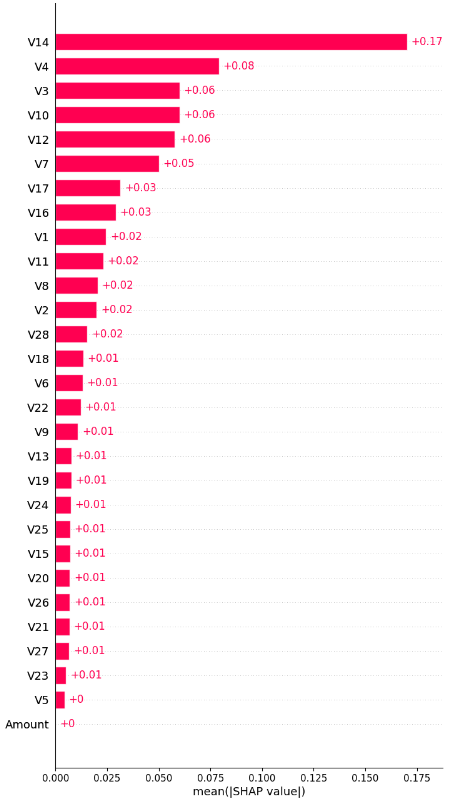
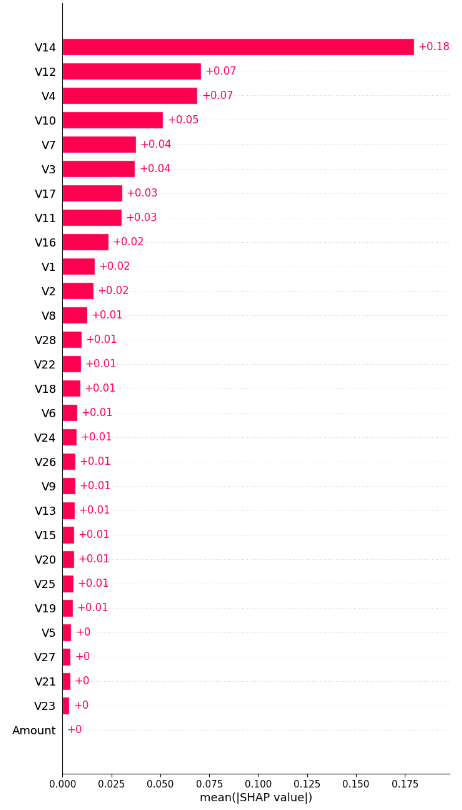
Actualizar recomendaciones y algunos archivos

Changed region(s): [[0.0307, 0.0, 0.9825, 1.0]]

diff --git a/README.md b/README.md
@@ -85,7 +85,7 @@ secciones se detallará esto.
 ### Rendimiento
 
 El modelo obtuvo excelentes rendimientos, al utilizar AUC-ROC, sensibilidad, precisión y F1. Las puntuaciones fueron 0.99, 1, 0.99 y 0.99, respectivamente. Otro
- método para evaluar nuestro modelo implicó el uso de la matriz de confusión. La matriz de confusión indicó 28 falsos positivos, un número relativamente pequeño
+ método para evaluar nuestro modelo implicó el uso de la matriz de confusión. La matriz de confusión indicó 18 falsos positivos, un número relativamente pequeño
  en comparación con los verdaderos positivos (56,976). Esto implica la generalización del modelo. La siguiente image muestran la matriz de confusión.
 
 ![matriz-de-confusion](./matriz-de-confusion.png)
@@ -94,7 +94,7 @@ El modelo obtuvo excelentes rendimientos, al utilizar AUC-ROC, sensibilidad, pre
 ### Interpretabilidad
 
 El modelo incluye capacidades de interpretabilidad al computar valores SHAP. Esto permitió descubrir que la característica más
- importante, por lejos, para predecir si una transacción es fraudulenta o legítima es 'V14' con un valor SHAP promedio global de 0.17, 
+ importante, por lejos, para predecir si una transacción es fraudulenta o legítima es 'V14' con un valor SHAP promedio global de 0.18, 
 esto representa un 212.5% más que la segunda característica más importante, 'V4' con 0.08. Es importante notar que la 
 característica menos importante para la predicción objetiva del modelo es la cantidad de dinero transferido ('Amount'). La siguiente imagen
 ilustra lo anterior.
@@ -112,52 +112,18 @@ es fraudulenta.
 
 ## Recomendaciones y pasos futuros
 
-En función a los conocimientos adquiridos sobre los patrones de transacciones fraudulentas y legítimas, al entrenar un modelo predictivo
- con capacidades de generalización e interpretabilidad, usando árboles de decisión con aumento de gradiente (ADAG), implementado
- en XGBoost, a continuación se ofrecen algunas recomendaciones prácticas:
+En función a los conocimientos adquiridos sobre los patrones de transacciones fraudulentas y legítimas, al entrenar un modelo predictivo con capacidades de generalización e interpretabilidad, usando árboles de decisión con aumento de gradiente (ADAG), implementado en XGBoost, a continuación se ofrecen algunas recomendaciones prácticas:
 
-- Implementar modelo en producción: Basado en los resultados obtenidos el modelo es suficientemente robusto como para reemplazar el actual sistema de reglas 
-estáticas. Se recomienda proceder con la implementación del modelo a nivel de producción para mejorar la detección de fraude y 
-reducir las pérdidas financieras.
+- Implementar modelo en producción: Basado en los resultados obtenidos el modelo es suficientemente robusto como para reemplazar el actual sistema de reglas estáticas.
 
-- Optimizar la interfaz con el cliente basada en interpretabilidad: Crear una interfaz clara y sencilla que explique las decisiones del modelo
- a los comerciantes y clientes. Por ejemplo, si una transacción es clasificada como sospechosa, el sistema debería poder exponer
- las principales razones de tal clasificación utilizando las características clave (como la 'V14') con explicaciones comprensibles. Esto es
- fundamental para mantener la confianza de los clientes cuando una transacción legítima es marcada como potencialmente fraudulenta.
-Además se deberían implementar notificaciones en tiempo real para que los clientes puedan revisar inmediatamente las transacciones
- etiquetadas como sospechosas, y proporcionar un sistema eficiente para que puedan confirmar o refutar rápidamente la decisión.
+- Optimizar la interfaz con el cliente garantizado interpretabilidad: Implementar una interfaz  que explique decisiones a los clientes. Esto es fundamental para mantener la confianza de los clientes cuando una transacción legítima es marcada como fraudulenta.
 
-- Proveer soporte y retroalimentación: Implementar un sistema de soporte activo para que los clientes de las compañías que se procesan los
- pagos, puedan reportar rápidamente problemas o dudas sobre el sistema de detección de fraude. Esta retroalimentación puede ser 
-valiosa para mejorar tanto el modelo como la experiencia del cliente.
+- Proveer soporte y retroalimentación: Implementar un sistema de soporte activo para que los clientes de las compañías que se procesan los pagos, puedan reportar rápidamente problemas o dudas sobre el sistema de detección de fraude. La retroalimentación mejoraría tanto el modelo como la experiencia del cliente.
 
-- Monitorear las métricas clave en producción: Aunque el modelo ha mostrado una alta tasa de precisión y sensibilidad, es fundamental
- monitorear continuamente su rendimiento en producción. Las amenazas de fraude evolucionan rápidamente, por lo que se
- recomienda implementar un sistema de monitorización que rastree métricas como la tasa de falsos positivos y negativos, la tasa
- de fraude detectado y las pérdidas financieras evitadas. 
+- Monitorear las métricas clave en producción: Aunque el modelo ha demostrado un excelente rendimiento, es de suma importancia monitorearlo en producción de manera continua. Las estrategias para realizar fraude evolucionan rápidamente, por eso es necesario monitorear métricas como la tasa de falsos positivos, falsos negativos y pérdidas financieras evitadas.
 
-- Reentrenar el modelo periódicamente: A medida que se acumulan más datos de transacciones, es importante
- reentrenar el modelo regularmente para que continúe aprendiendo de nuevos patrones de fraude y no se
- quede obsoleto. Se recomienda un ciclo de reentrenamiento periódicamente, por ejemplo, cada 3-6 meses,
- o cuando los indicadores clave de rendimiento comiencen a deteriorarse.
+- Reentrenar el modelo periódicamente: Se debe entrenar el modelo regularmente para mantenerse a la par para identificar nuevos patrones de fraude. Se debe reentrenar cuando las métricas claves de rendimiento comiencen a deteriorarse considerablemente.
 
-- Revisar manualmente los falsos negativos importantes: Aunque el modelo muestra una alta sensibilidad, es fundamental tener un equipo dedicado
- que revise manualmente las transacciones que el modelo no marca como sospechosas pero que los clientes o sistemas de auditoría
- identifiquen posteriormente como fraudulentas. Estos casos pueden proporcionar retroalimentación valiosa para ajustar el modelo.
+- Revisar manualmente los falsos negativos importantes: Aunque el modelo muestra una alta sensibilidad, es fundamental tener un equipo dedicado que revise manualmente las transacciones que el modelo no marca como sospechosas pero que los clientes o sistemas de auditoría identifiquen posteriormente como fraudulentas. Estos casos pueden proporcionar retroalimentación valiosa para ajustar el modelo.
 
-- Enfocarse en las características clave: El análisis mostró que la característica ‘V14’ es la más relevante para la detección de fraude, con un
- valor SHAP promedio global de 0.17, marcadamente superior a las demás características. Se recomienda realizar un análisis más profundo
- de qué representa esta característica y cómo se puede mejorar su recolección de datos o representación en el sistema. Además, dado
- que la cantidad de dinero transferido (‘Amount’) fue identificada como la característica menos importante, se podría reconsiderar el
- peso que se le asigna a esta variable en otros sistemas de decisión.
-
-- Explorar nuevas características: A medida que SecureSwipe crezca, es importante explorar la posibilidad de
- integrar nuevas características que podrían mejorar aún más la precisión del modelo. Esto podría incluir 
-datos geográficos, patrones de comportamiento del usuario, o tiempos de transacción.
-
-- Medir las pérdidas financieras evitadas al implementar el modelo: Una vez que el modelo esté en producción, se recomienda realizar un análisis
- detallado del impacto financiero de la implementación, midiendo las pérdidas evitadas debido a la detección activa de fraude. Esto permitirá
- calcular el retorno de inversión (ROI) del nuevo sistema. 
-
-- Analizar los costos de falsos positivos: Dado que los falsos positivos también generan costos al bloquear transacciones legítimas, es
- importante analizar el impacto financiero de estas transacciones erróneamente clasificadas y ajustarlas en consecuencia.
+- Enfocarse en las características clave: El análisis mostró que la característica ‘V14’ es la más relevante para la detección de fraude, con un valor SHAP promedio global de 0.17, marcadamente superior a las demás características. Se recomienda realizar un análisis más profundo de qué representa esta característica y cómo se puede mejorar su recolección de datos o representación en el sistema. Además, dado que la cantidad de dinero transferido (‘Amount’) fue identificada como la característica menos importante, se podría reconsiderar el peso que se le asigna a esta variable en otros sistemas de decisión.
